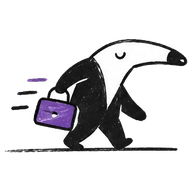
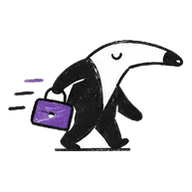
landing: Audiovisual sem a linha do chão e com versão nova da imagem (evita cache)

diff --git a/public/incentivadores.html b/public/incentivadores.html
@@ -1117,22 +1117,22 @@
       <div class="leis-seletor alt-scroll-x reveal" role="group" aria-label="Lei de incentivo">
         <div class="leis-legenda-topo" aria-hidden="true"><span>Lei</span><span class="leis-contador"><span class="leis-contador-atual">01</span><span>/ 04</span></span></div>
         <button type="button" class="lei-card-btn is-active" style="--lei-cor:#D94A4A" data-lei="cultura" aria-pressed="true" onclick="selecionarLei('cultura',this)">
-          <span class="lei-icone"><img src="/illustrations/leis/cultura.png" alt="" width="192" height="192" loading="lazy"></span>
+          <span class="lei-icone"><img src="/illustrations/leis/cultura.png?v=2" alt="" width="192" height="192" loading="lazy"></span>
           <span class="lei-nome font-display">Cultura</span>
           <span class="lei-progresso" aria-hidden="true"></span>
         </button>
         <button type="button" class="lei-card-btn" style="--lei-cor:#E5482B" data-lei="esporte" aria-pressed="false" onclick="selecionarLei('esporte',this)">
-          <span class="lei-icone"><img src="/illustrations/leis/esporte.png" alt="" width="192" height="192" loading="lazy"></span>
+          <span class="lei-icone"><img src="/illustrations/leis/esporte.png?v=2" alt="" width="192" height="192" loading="lazy"></span>
           <span class="lei-nome font-display">Esporte</span>
           <span class="lei-progresso" aria-hidden="true"></span>
         </button>
         <button type="button" class="lei-card-btn" style="--lei-cor:#D6336C" data-lei="audiovisual" aria-pressed="false" onclick="selecionarLei('audiovisual',this)">
-          <span class="lei-icone"><img src="/illustrations/leis/audiovisual.png" alt="" width="192" height="192" loading="lazy"></span>
+          <span class="lei-icone"><img src="/illustrations/leis/audiovisual.png?v=2" alt="" width="192" height="192" loading="lazy"></span>
           <span class="lei-nome font-display">Audiovisual</span>
           <span class="lei-progresso" aria-hidden="true"></span>
         </button>
         <button type="button" class="lei-card-btn" style="--lei-cor:#B23A3A" data-lei="saude" aria-pressed="false" onclick="selecionarLei('saude',this)">
-          <span class="lei-icone"><img src="/illustrations/leis/saude.png" alt="" width="192" height="192" loading="lazy"></span>
+          <span class="lei-icone"><img src="/illustrations/leis/saude.png?v=2" alt="" width="192" height="192" loading="lazy"></span>
           <span class="lei-nome font-display">Saúde</span>
           <span class="lei-progresso" aria-hidden="true"></span>
         </button>

diff --git a/public/landing.html b/public/landing.html
@@ -1573,22 +1573,22 @@
       <div class="leis-seletor alt-scroll-x reveal" role="group" aria-label="Lei de incentivo">
         <div class="leis-legenda-topo" aria-hidden="true"><span>Lei</span><span class="leis-contador"><span class="leis-contador-atual">01</span><span>/ 04</span></span></div>
         <button type="button" class="lei-card-btn is-active" data-lei="cultura" aria-pressed="true" onclick="selecionarLei('cultura',this)">
-          <span class="lei-icone"><img src="/illustrations/leis/cultura.png" alt="" width="192" height="192" loading="lazy"></span>
+          <span class="lei-icone"><img src="/illustrations/leis/cultura.png?v=2" alt="" width="192" height="192" loading="lazy"></span>
           <span class="lei-nome font-display">Cultura</span>
           <span class="lei-progresso" aria-hidden="true"></span>
         </button>
         <button type="button" class="lei-card-btn" data-lei="esporte" aria-pressed="false" onclick="selecionarLei('esporte',this)">
-          <span class="lei-icone"><img src="/illustrations/leis/esporte.png" alt="" width="192" height="192" loading="lazy"></span>
+          <span class="lei-icone"><img src="/illustrations/leis/esporte.png?v=2" alt="" width="192" height="192" loading="lazy"></span>
           <span class="lei-nome font-display">Esporte</span>
           <span class="lei-progresso" aria-hidden="true"></span>
         </button>
         <button type="button" class="lei-card-btn" data-lei="audiovisual" aria-pressed="false" onclick="selecionarLei('audiovisual',this)">
-          <span class="lei-icone"><img src="/illustrations/leis/audiovisual.png" alt="" width="192" height="192" loading="lazy"></span>
+          <span class="lei-icone"><img src="/illustrations/leis/audiovisual.png?v=2" alt="" width="192" height="192" loading="lazy"></span>
           <span class="lei-nome font-display">Audiovisual</span>
           <span class="lei-progresso" aria-hidden="true"></span>
         </button>
         <button type="button" class="lei-card-btn" data-lei="saude" aria-pressed="false" onclick="selecionarLei('saude',this)">
-          <span class="lei-icone"><img src="/illustrations/leis/saude.png" alt="" width="192" height="192" loading="lazy"></span>
+          <span class="lei-icone"><img src="/illustrations/leis/saude.png?v=2" alt="" width="192" height="192" loading="lazy"></span>
           <span class="lei-nome font-display">Saúde</span>
           <span class="lei-progresso" aria-hidden="true"></span>
         </button>
